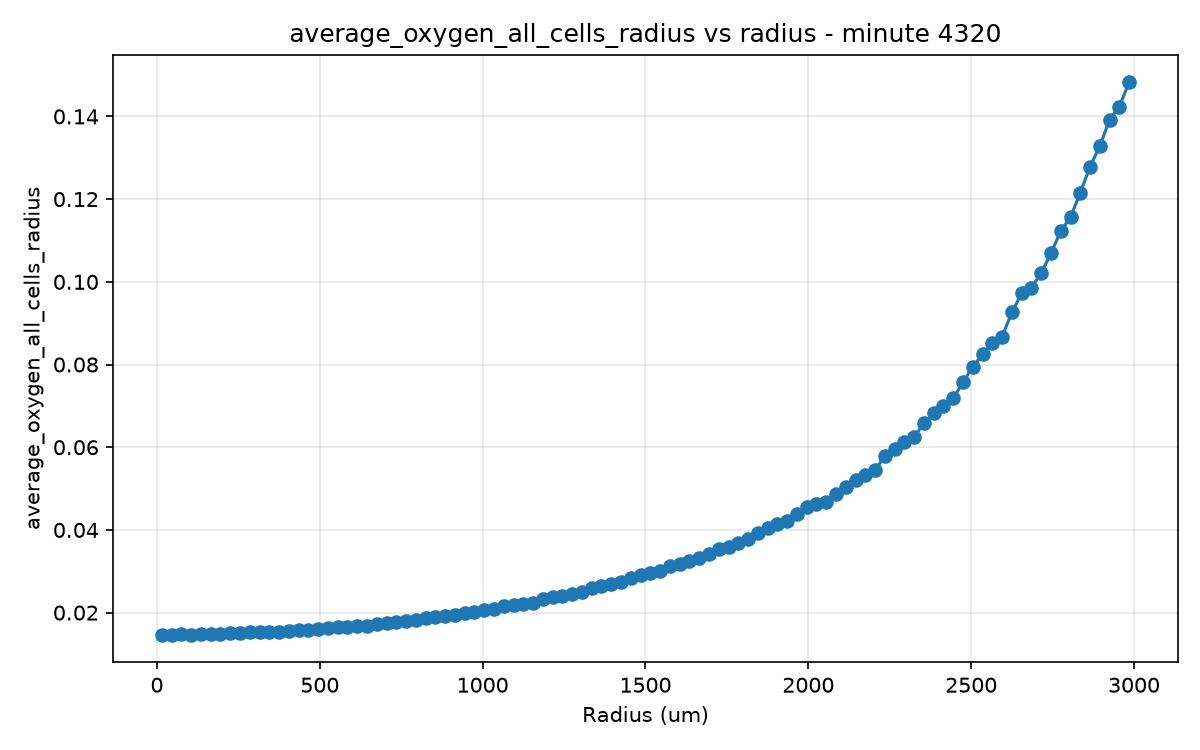
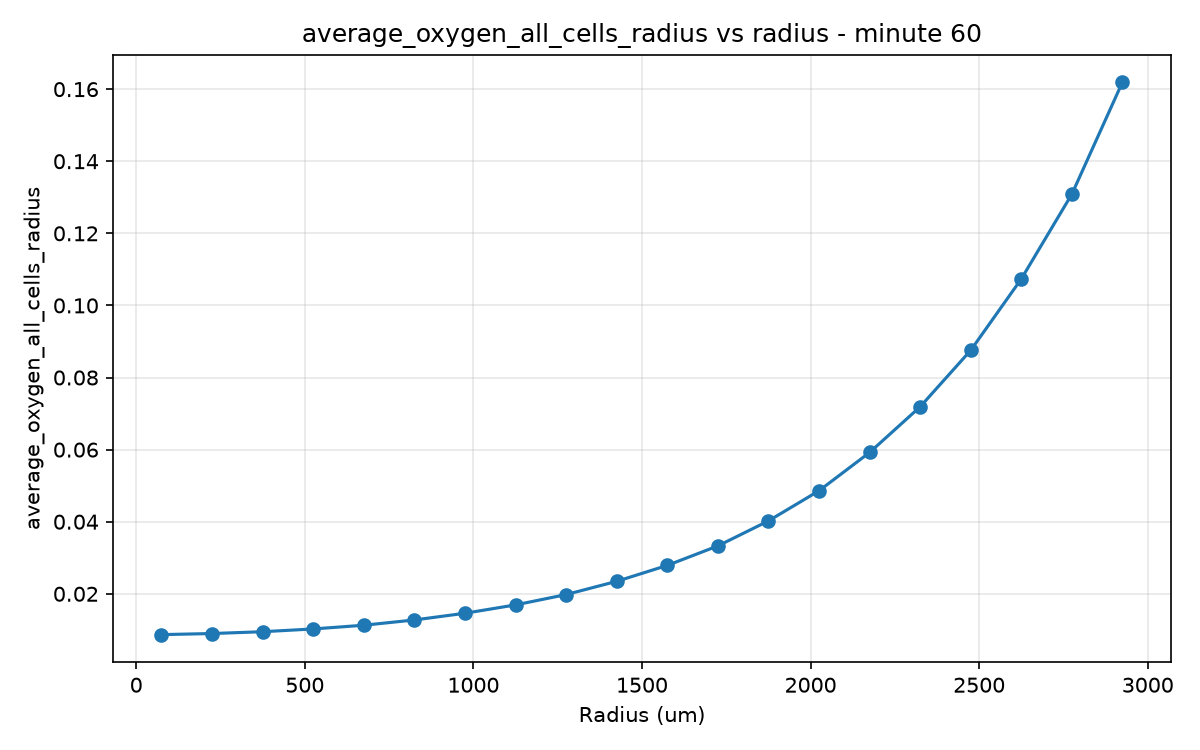
new parameters for oxygen diffusion

diff --git a/abm_calibration/optimize.py b/abm_calibration/optimize.py
@@ -29,7 +29,7 @@ import optuna
 import pandas as pd
 
 # Change this: File Parameters for the desired experiment
-EXPERIMENT_ID = 1
+EXPERIMENT_ID = 4
 SEED = 42
 # You can set the number of trials to 0 to skip the optimization and just load the best result from the database
 NUMBER_OF_TRIALS = 1
@@ -82,7 +82,7 @@ def run_ABM(params, seed, num_cells):
         "initial_oxygen_level": 0.0,
         "oxygen_reference_level": oxygen_reference_level,
         "diffusion_coefficient_oxygen": 180000.0,
-        "decay_constant_oxygen": 0.1,
+        "decay_constant_oxygen": 0.01,
         "treatment": {
             "0": 0
         },
@@ -173,13 +173,93 @@ def compute_error(target_inner, target_outer):
     # ).mean()
     # return float(mse)
 
+# Function to run the ABM with the given parameters
+def run_ABM2(params, seed, num_cells):
+    # Change this: parameter to be optimized in the ABM simulation
+    oxygen_reference_level = params[
+        "oxygen_reference_level"
+    ]
+    default_oxygen_consumption_tumor_cell = params[
+        "default_oxygen_consumption_tumor_cell"
+    ]
+
+    # Change this configuration for the ABM run
+    config = {
+        "seed": seed,
+        "output_performance_statistics": False,
+        "total_minutes_to_simulate": 30,
+        "output_csv_interval": 300,
+        "bounded_space_length": 6500.0,
+        "tumor_shape": "cylinder",
+        "output_information_dependent_on_radius": True,
+        "cylindrical_tumor_radius": 3000.0,
+        "max_radius_analysis_csv_dependent_on_radius": 3000.0,
+        "num_radius_intervals": 20,
+        "cylindrical_tumor_height": 100.0,
+        "initial_number_of_cylindrical_tumor_cells": num_cells,
+        "oncoprotein_standard_deviation": 0.0,
+        "lateral_oxygen_production_min_z": -6600.0,
+        "lateral_oxygen_production_max_z": 6600.0,
+        "diffuse_on_z_axis": True,
+        "initial_oxygen_level": 0.0,
+        "oxygen_reference_level": oxygen_reference_level,
+        "diffusion_coefficient_oxygen": 180000.0,
+        "decay_constant_oxygen": 0.01,
+        "treatment": {
+            "0": 0
+        },
+        "default_oxygen_consumption_tumor_cell": default_oxygen_consumption_tumor_cell,
+        "oxygen_limit_for_necrosis_maximum": 0.0,
+        "oxygen_limit_for_necrosis": 0.0
+        }
+
+    # Save the config parameters for the run to the params.json file
+    with open(PARAMS_PATH, "w") as f:
+        json.dump(config, f, indent=2)
+
+    # Load the ByoDynaMo environment and run the ABM simulation using the BioDynaMo executable
+    subprocess.run(["bash", "-c", f"source {BIODYNAMO_DIR} && bdm run"], check=True)
+
+def compute_error2(target_inner):
+    sim_dir = Path(__file__).resolve().parent.parent / "output" / "data_dependent_on_radius_tumor.csv"
+
+    if not sim_dir.exists():
+        logging.error("Missing simulation CSV: %s", sim_dir)
+        return float("inf")
+
+    df_s = pd.read_csv(
+        sim_dir,
+        usecols=[
+            "total_minutes",
+            "average_oxygen_all_cells_radius_2850_to_3000",
+            "average_oxygen_all_cells_radius_0_to_150",
+        ],
+    )
+
+    # See the value at the minute 30 for the average oxygen level in the simulation data
+    row = df_s[df_s["total_minutes"] == 30].iloc[0]
+    value_center = row["average_oxygen_all_cells_radius_0_to_150"]
+    value_center_in_mol_m3 = value_center / 585  # Convert from mmHg to mol/m3
+    target_value_center = target_inner
+
+   # Debug print de los 4 valores 
+    print(f"Value center: {value_center_in_mol_m3}")
+    print(f"Target value center: {target_value_center}")
+
+    mse=0.
+   # MSE
+    if value_center_in_mol_m3 < target_value_center:
+        mse = (value_center_in_mol_m3 - target_value_center) ** 2
+    
+    
+    return float(mse)
 
 # Objective function for the Optuna optimization process
 def objective(trial):
     # Change this: Define the parameters to be optimized and their ranges
     params = {
-        "oxygen_reference_level": trial.suggest_float("oxygen_reference_level", 130.0, 200.0, step=1),
-        "default_oxygen_consumption_tumor_cell": trial.suggest_float("default_oxygen_consumption_tumor_cell", 10.0, 20.0, step=0.1),        
+        "oxygen_reference_level": trial.suggest_float("oxygen_reference_level", 90.0, 300.0, step=1),
+        "default_oxygen_consumption_tumor_cell": trial.suggest_float("default_oxygen_consumption_tumor_cell", 10.0, 150.0, step=0.1),        
     }
 
     logging.info(f"Trial {trial.number} | params={params}")
@@ -187,14 +267,14 @@ def objective(trial):
     # Compute the error as the average of the errors from multiple Monte Carlo simulations varying the seed
     total_error = 0
     for seed in np.random.randint(0, 10000, NUMBER_MONTE_CARLO):
-        print(f"Running ABM with seed {seed} and num_cells=2800") 
-        run_ABM(params, int(seed), num_cells=2800)
-        error = compute_error(target_inner=0.09, target_outer=0.19)
+        print(f"Running ABM with seed {seed} no cup") 
+        run_ABM2(params, int(seed), num_cells=28000)
+        error = compute_error2(target_inner=0.09)
         total_error += error
         print(f"Error for seed {seed}: {error}")
-        print(f"Running ABM with seed {seed} and num_cells=28000")
+        print(f"Running ABM with seed {seed} and num_cells=28000 with cup")
         run_ABM(params, int(seed), num_cells=28000)
-        error = compute_error(target_inner=0.002, target_outer=0.16)
+        error = compute_error(target_inner=0.009, target_outer=0.16)
         total_error += error
         print(f"Error for seed {seed}: {error}")
 

diff --git a/draft/analysis_radius_oxygen.py b/draft/analysis_radius_oxygen.py
@@ -4,7 +4,7 @@ import matplotlib.pyplot as plt
 
 # ---- settings ----
 CSV_PATH = "./output/data_dependent_on_radius_tumor.csv"
-MINUTE = 4320 # change this to the minute you want to plot
+MINUTE = 60 # change this to the minute you want to plot
 ATTRIBUTE = "average_oxygen_all_cells_radius"  # change this to the attribute you want to plot
 DIVIDING_FACTOR = 585  # change this to the factor you want to divide by. Use 525 to pass from mmHg to mol/m3
 # other examples: "average_oncoprotein_radius", "average_oxygen_cancer_cells_radius",

diff --git a/draft/generatecsv.py b/draft/generatecsv.py
@@ -7,7 +7,7 @@ import numpy as np
 import optuna
 import pandas as pd
 # Change this: File Parameters for the desired experiment
-EXPERIMENT_ID = 1
+EXPERIMENT_ID = 3
 SEED = 42
 # You can set the number of trials to 0 to skip the optimization and just load the best result from the database
 NUMBER_OF_TRIALS = 1
